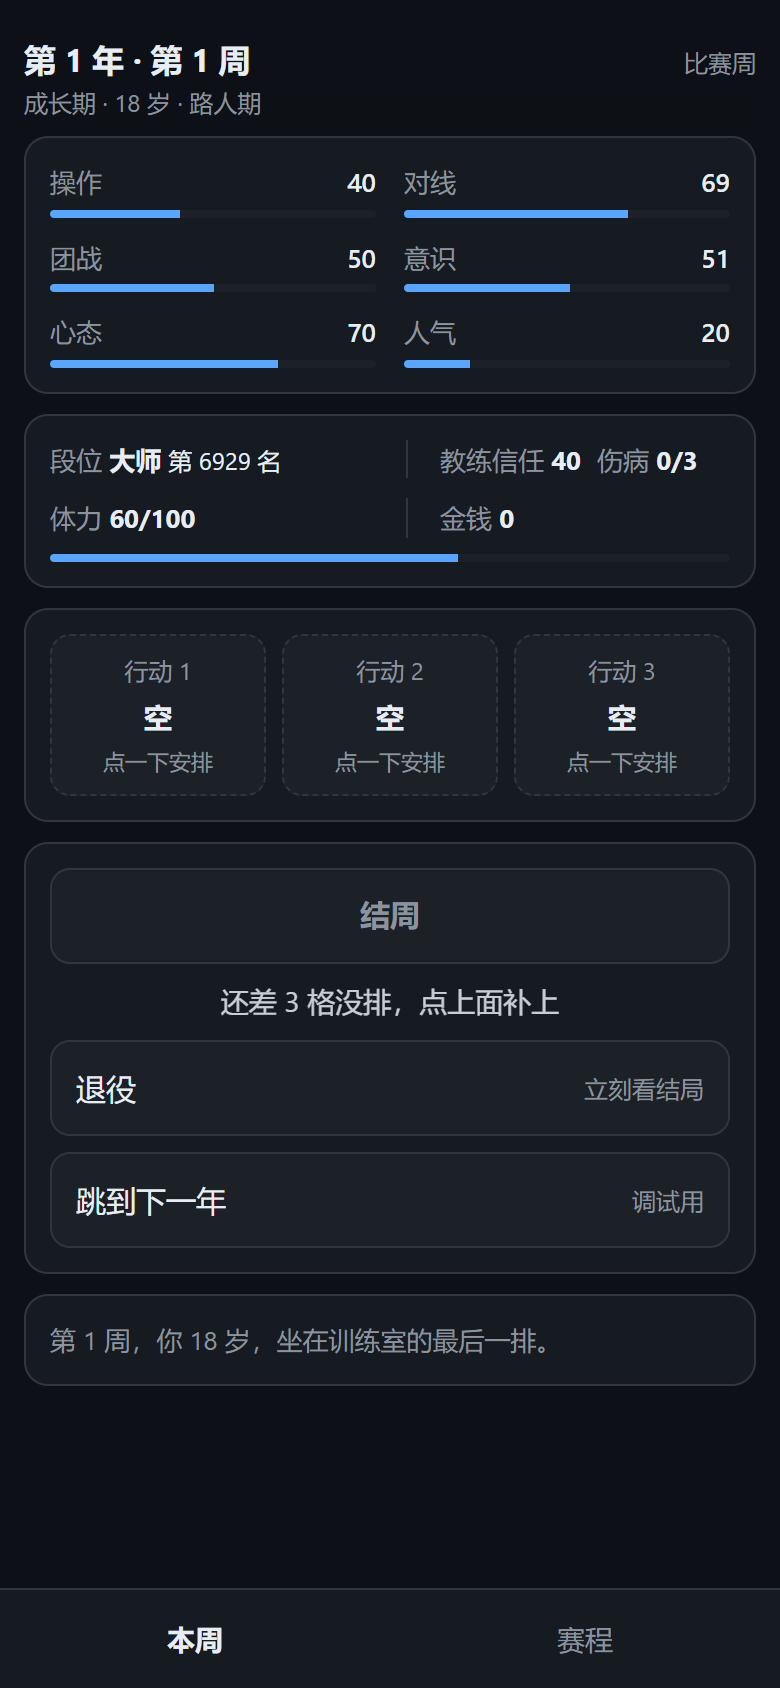
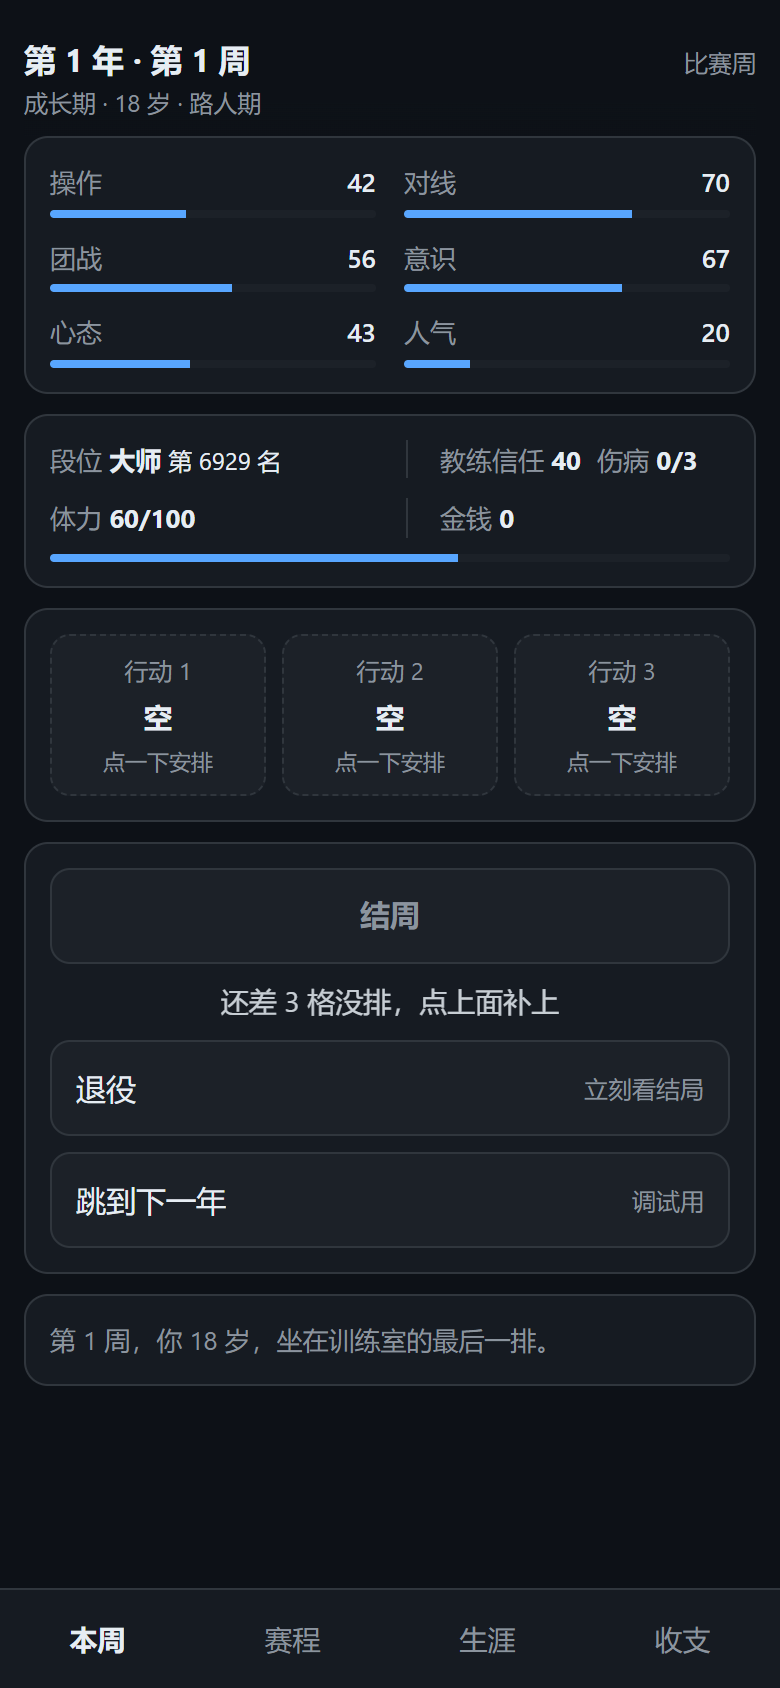
feat: 行动成本改为随属性递增，收益固定 1 点，休息按上限 20%

diff --git a/src/core/actions.ts b/src/core/actions.ts
@@ -23,26 +23,47 @@ export interface ActionInfo {
 }
 
 export const ACTION_INFO: Record<ActionId, ActionInfo> = {
-  rank: { label: '上分', hint: '对线、操作各涨 3/2/1；段位分数 ↑', needsContract: false },
-  train: { label: '专项训练', hint: '选一维涨 3/2/1（越低越快）', needsContract: false },
-  review: { label: '复盘录像', hint: '意识涨 3/2/1', needsContract: false },
-  scrim: { label: '训练赛', hint: '团战、意识各涨 3/2/1；信任 +2', needsContract: true },
+  rank: { label: '上分', hint: '对线、操作各 +1；段位分数 ↑', needsContract: false },
+  train: { label: '专项训练', hint: '选一维 +2', needsContract: false },
+  review: { label: '复盘录像', hint: '意识 +1', needsContract: false },
+  scrim: { label: '训练赛', hint: '团战、意识各 +1；信任 +2', needsContract: true },
   fitness: { label: '健身', hint: '体力上限 +4', needsContract: false },
-  stream: { label: '直播', hint: '钱 +1000、人气 +2', needsContract: false },
-  business: { label: '商业活动', hint: '钱 +2000、人气 +5', needsContract: true },
-  rest: { label: '休息', hint: '体力 +30', needsContract: false },
+  stream: { label: '直播', hint: '钱 +400、人气 +2', needsContract: false },
+  business: { label: '商业活动', hint: '钱 +800、人气 +5', needsContract: true },
+  rest: { label: '休息', hint: '按上限的 20% 回体力', needsContract: false },
 };
 
-export function staminaCost(action: ActionId): number {
+/** 递增成本：属性越高，这一格越贵。 */
+function escalate(base: number, value: number): number {
+  const { from, step } = CONFIG.actions.cost;
+  return base + step * Math.max(0, Math.floor((value - from) / 10));
+}
+
+/**
+ * 这一格要花多少体力。
+ * 四项训练按「这次练的那一维现在多少」算价，所以必须传 state；
+ * target 只对专训有意义（练哪一维就按哪一维收费）。
+ */
+export function staminaCost(
+  state: GameState,
+  action: ActionId,
+  target?: AttrKey | null,
+): number {
+  const a = state.attrs;
   switch (action) {
     case 'rank':
-      return CONFIG.actions.rank.stamina;
-    case 'train':
-      return CONFIG.actions.train.stamina;
+      return escalate(CONFIG.actions.rank.stamina, Math.min(a.laning, a.operation));
+    case 'train': {
+      // 不指定这一维时（选项页还没选），报最便宜那一维的价，界面标「起」。
+      const v = target
+        ? a[target]
+        : Math.min(a.operation, a.laning, a.teamfight, a.awareness, a.mentality);
+      return escalate(CONFIG.actions.train.stamina, v);
+    }
     case 'review':
-      return CONFIG.actions.review.stamina;
+      return escalate(CONFIG.actions.review.stamina, a.awareness);
     case 'scrim':
-      return CONFIG.actions.scrim.stamina;
+      return escalate(CONFIG.actions.scrim.stamina, Math.min(a.teamfight, a.awareness));
     case 'fitness':
       return CONFIG.actions.fitness.stamina;
     case 'stream':
@@ -65,7 +86,7 @@ export function remainingStamina(state: GameState, ignoreSlot = -1): number {
   for (let i = 0; i < state.actionGrid.length; i++) {
     if (i === ignoreSlot) continue;
     const action = state.actionGrid[i];
-    if (action) spent += staminaCost(action);
+    if (action) spent += staminaCost(state, action, state.actionTargets[i]);
   }
   return state.stamina - spent;
 }
@@ -76,7 +97,7 @@ export function remainingStamina(state: GameState, ignoreSlot = -1): number {
  */
 export function canAfford(state: GameState, slot: number, action: ActionId): boolean {
   if (action === 'rest') return true;
-  return remainingStamina(state, slot) >= staminaCost(action);
+  return remainingStamina(state, slot) >= staminaCost(state, action);
 }
 
 /** 人气增长有递减：越高越难涨，避免一直直播就把人气顶满。 */
@@ -160,7 +181,9 @@ export function applyAction(
       break;
     case 'rest':
       state.stamina = clamp(
-        state.stamina + CONFIG.actions.rest.restore + restBonus(state),
+        state.stamina +
+          Math.round(state.maxStamina * CONFIG.actions.rest.restoreRatio) +
+          restBonus(state),
         0,
         state.maxStamina,
       );

diff --git a/src/ui/main.ts b/src/ui/main.ts
@@ -186,7 +186,7 @@ function renderSlots(): string {
     .map((id, slot) => {
       const label = id ? ACTION_INFO[id].label : '空';
       const target = state.actionTargets[slot];
-      const extra = id === 'train' && target ? ATTR_LABEL[target] : id ? `${staminaCost(id)} 体力` : '点一下安排';
+      const extra = id === 'train' && target ? ATTR_LABEL[target] : id ? `${staminaCost(state, id, target)} 体力` : '点一下安排';
       return `<button class="slot ${id ? 'filled' : ''}" data-act="slot" data-slot="${slot}">
         <span class="k">${slotLabel(slot)}</span>
         <span class="v">${label}</span>
@@ -241,8 +241,12 @@ function renderSheet(): string {
       const afford = canAfford(state, sheet!.slot, id);
       const disabled = !unlocked || !afford;
       // 体力一律放右边、右对齐、等宽数字；描述降一行说「换来什么」
-      const pts = staminaCost(id);
-      const cost = unlocked && pts > 0 ? `<b class="opt-num">${pts}</b><span class="opt-unit">体力</span>` : '';
+      const pts = staminaCost(state, id, null);
+      const at = id === 'train' ? ' 起' : '';
+      const cost =
+        unlocked && pts > 0
+          ? `<b class="opt-num">${pts}</b><span class="opt-unit">体力${at}</span>`
+          : '';
       const sub = !unlocked
         ? '签约后解锁'
         : !afford
@@ -259,16 +263,19 @@ function renderSheet(): string {
       : '';
     return `<div class="overlay" data-act="close-sheet"><div class="sheet" data-kind="pick" data-stop="1">
       <h2>${slotLabel(sheet.slot)}排什么</h2>
-      ${phaseOfYear(state.year) === 'growth' ? '<div class="cap">成长阶段：每次练习多涨 1 点。</div>' : ''}
       <div class="options">${rows}${clearRow}</div>
     </div></div>`;
   }
 
   const rows = ATTR_KEYS.filter((key) => key !== 'popularity')
-    .map(
-      (key) =>
-        `<button class="btn" data-act="pick-target" data-key="${key}"><span>${ATTR_LABEL[key]}</span><span class="hint">集中提升</span></button>`,
-    )
+    .map((key) => {
+      const price = staminaCost(state, 'train', key);
+      const afford = canAfford(state, sheet!.slot, 'train');
+      return `<button class="btn" data-act="pick-target" data-key="${key}" ${afford ? '' : 'disabled'}>
+        <span>${ATTR_LABEL[key]}</span>
+        <span class="hint">现在 ${state.attrs[key]} · ${price} 体力</span>
+      </button>`;
+    })
     .join('');
   return `<div class="overlay" data-act="close-sheet"><div class="sheet" data-kind="pick" data-stop="1">
     <h2>专项训练练哪一项</h2>

diff --git a/src/config.ts b/src/config.ts
@@ -44,16 +44,11 @@ export const CONFIG = {
   attrs: {
     cap: 100,
     /**
-     * 练一次涨几点：按「这一维现在多少」分段，越练越慢，全部必成。
-     * 60 以下 +3、60–79 +2、80 以上 +1。
+     * 练一次的收益固定 1 点（专训 2 点）。
+     * 「越练越慢」不放在收益侧，放在体力成本侧（见 actions.cost），
+     * 所以对外看到的永远是整数。
      */
-    trainBands: [
-      { under: 60, gain: 3 },
-      { under: 80, gain: 2 },
-      { under: 101, gain: 1 },
-    ],
-    /** 成长阶段每次练习额外多涨的点数。 */
-    growthBonus: 1,
+    trainGain: 1,
     /** 衰退期年初：四项总和降为原来的 80%（损失平均摊到四项）。 */
     declineRatio: 0.8,
     /** 每年自然增长的心态。 */
@@ -73,17 +68,23 @@ export const CONFIG = {
     agent: { price: 3000, businessMultiplier: 1.5 },
   },
 
-  /** 每个行动的体力消耗与收益。 */
+  /**
+   * 每个行动的体力消耗与收益。
+   * 四项训练的实际体力 = 基础价 + step × ⌊max(0, 属性 − from) ÷ 10⌋：
+   * 属性越高越贵，这是「越练越慢」的唯一来源。
+   */
   actions: {
-    rank: { stamina: 12, gain: { laning: 1, operation: 1 } },
+    cost: { from: 40, step: 3 },
+    rank: { stamina: 14, gain: { laning: 1, operation: 1 } },
     /** 数字 = 指定一维涨几点。 */
-    train: { stamina: 14, gain: 2 },
-    review: { stamina: 6, gain: { awareness: 1 } },
-    scrim: { stamina: 14, gain: { teamfight: 1, awareness: 1 }, coachTrust: 2 },
+    train: { stamina: 12, gain: 2 },
+    review: { stamina: 8, gain: { awareness: 1 } },
+    scrim: { stamina: 16, gain: { teamfight: 1, awareness: 1 }, coachTrust: 2 },
     fitness: { stamina: 8, maxStamina: 4, maxStaminaCap: 999 },
     stream: { stamina: 10, money: 400, popularity: 2 },
     business: { stamina: 25, money: 800, popularity: 5 },
-    rest: { stamina: 0, restore: 30 },
+    /** 休息按体力上限的比例恢复，所以健身从「纯亏」变成投资。 */
+    rest: { stamina: 0, restoreRatio: 0.2 },
   },
 
   /**

diff --git a/tests/core.test.ts b/tests/core.test.ts
@@ -2,6 +2,7 @@ import { describe, expect, it } from 'vitest';
 import { CONFIG } from '../src/config';
 import { isStarting, startRequirement } from '../src/core/league';
 import { reduce } from '../src/core/reduce';
+import { staminaCost } from '../src/core/actions';
 import { applyAction, canAfford } from '../src/core/actions';
 import { advanceYear, gainExp, gainPoints, trainGain } from '../src/core/growth';
 import { autoMatch, applyMatchOutcome } from '../src/core/match';
@@ -145,17 +146,37 @@ describe('行动', () => {
 });
 
 describe('成长', () => {
-  it('成长阶段练一次多涨 1 点，巅峰期只有本色收益', () => {
+  it('练一次的收益固定：基础 1 点，成长阶段不再额外加成', () => {
     const young = newGame(1);
     const old = newGame(1);
     young.year = 1;
     old.year = 3;
     young.attrs.operation = 50;
     old.attrs.operation = 50;
-    gainPoints(young, 'operation', 2);
-    gainPoints(old, 'operation', 2);
-    expect(young.attrs.operation).toBe(53);
-    expect(old.attrs.operation).toBe(52);
+    gainPoints(young, 'operation', 1);
+    gainPoints(old, 'operation', 1);
+    expect(young.attrs.operation).toBe(51);
+    expect(old.attrs.operation).toBe(51);
+  });
+
+  it('属性越高，这一格越贵（每 10 点 +3 体力）', () => {
+    const s = newGame(1);
+    s.attrs.awareness = 45;
+    expect(staminaCost(s, 'review')).toBe(8);
+    s.attrs.awareness = 65;
+    expect(staminaCost(s, 'review')).toBe(14);
+    s.attrs.awareness = 95;
+    expect(staminaCost(s, 'review')).toBe(23);
+  });
+
+  it('休息按体力上限的 20% 恢复', () => {
+    const s = newGame(1);
+    s.stamina = 10;
+    s.maxStamina = 100;
+    s.actionGrid = ['rest', 'rest', 'rest'];
+    s.actionTargets = [null, null, null];
+    const state = reduce(s, { kind: 'endWeek' }).state;
+    expect(state.stamina).toBeGreaterThan(10 + 20 - 1);
   });
 
   it('衰退期四项下降，心态与人气不降', () => {

diff --git a/src/core/reduce.ts b/src/core/reduce.ts
@@ -2,7 +2,7 @@ import { CONFIG } from '../config';
 import { fixtureThisWeek, matchLogLine, myTeamStrength, recordResult, rivalStrength, winChance } from './league';
 import { createRng } from '../rng';
 import { hasOnce } from './shop';
-import type { Action, AttrKey, GameState, LogEntry, ReduceResult } from '../types';
+import type { Action, ActionId, AttrKey, GameState, LogEntry, ReduceResult } from '../types';
 import { applyAction, canAfford, isActionUnlocked, staminaCost } from './actions';
 import { advanceYear } from './growth';
 import { applyMatchOutcome, autoMatch, benchReason, canPlay } from './match';
@@ -59,7 +59,7 @@ export function reduce(prev: GameState, action: Action): ReduceResult {
 function selectAction(
   state: GameState,
   slot: number,
-  id: Parameters<typeof staminaCost>[0],
+  id: ActionId,
   target: AttrKey | null | undefined,
   out: LogEntry[],
 ): void {
@@ -114,7 +114,7 @@ function endWeek(state: GameState, out: LogEntry[]): void {
   for (let i = 0; i < 3; i++) {
     const id = state.actionGrid[i];
     if (!id) continue;
-    state.stamina = Math.max(0, state.stamina - staminaCost(id));
+    state.stamina = Math.max(0, state.stamina - staminaCost(state, id, state.actionTargets[i]));
     const lines = applyAction(state, id, state.actionTargets[i]);
     out.push(...lines.map((text) => ({ text, tone: 'plain' as const })));
   }

diff --git a/src/core/growth.ts b/src/core/growth.ts
@@ -9,14 +9,12 @@ export interface GainResult {
   capped: number;
 }
 
-/** 训练一次，这一维该涨几点：分段收益 + 成长阶段的额外 1 点。 */
+/** 训练一次，这一维该涨几点：固定基础收益 + 外设加成。 */
 import { trainBonus } from './shop';
 
 export function trainGain(state: GameState, key: AttrKey): number {
-  const value = state.attrs[key];
-  const band = CONFIG.attrs.trainBands.find((b) => value < b.under) ?? { gain: 1 };
-  const bonus = phaseOfYear(state.year) === 'growth' ? CONFIG.attrs.growthBonus : 0;
-  return band.gain + bonus + trainBonus(state);
+  void key;
+  return CONFIG.attrs.trainGain + trainBonus(state);
 }
 
 /** 直接加整数点：练到 100 就停。 */
@@ -26,8 +24,7 @@ export function gainPoints(state: GameState, key: AttrKey, amount: number): Gain
 
   if (state.attrs[key] >= cap || amount <= 0) return { points, capped: 0 };
 
-  const bonus = phaseOfYear(state.year) === 'growth' ? CONFIG.attrs.growthBonus : 0;
-  const want = amount + bonus;
+  const want = amount;
   const before = state.attrs[key];
   state.attrs[key] = clamp(before + want, 0, cap);
   points = state.attrs[key] - before;
